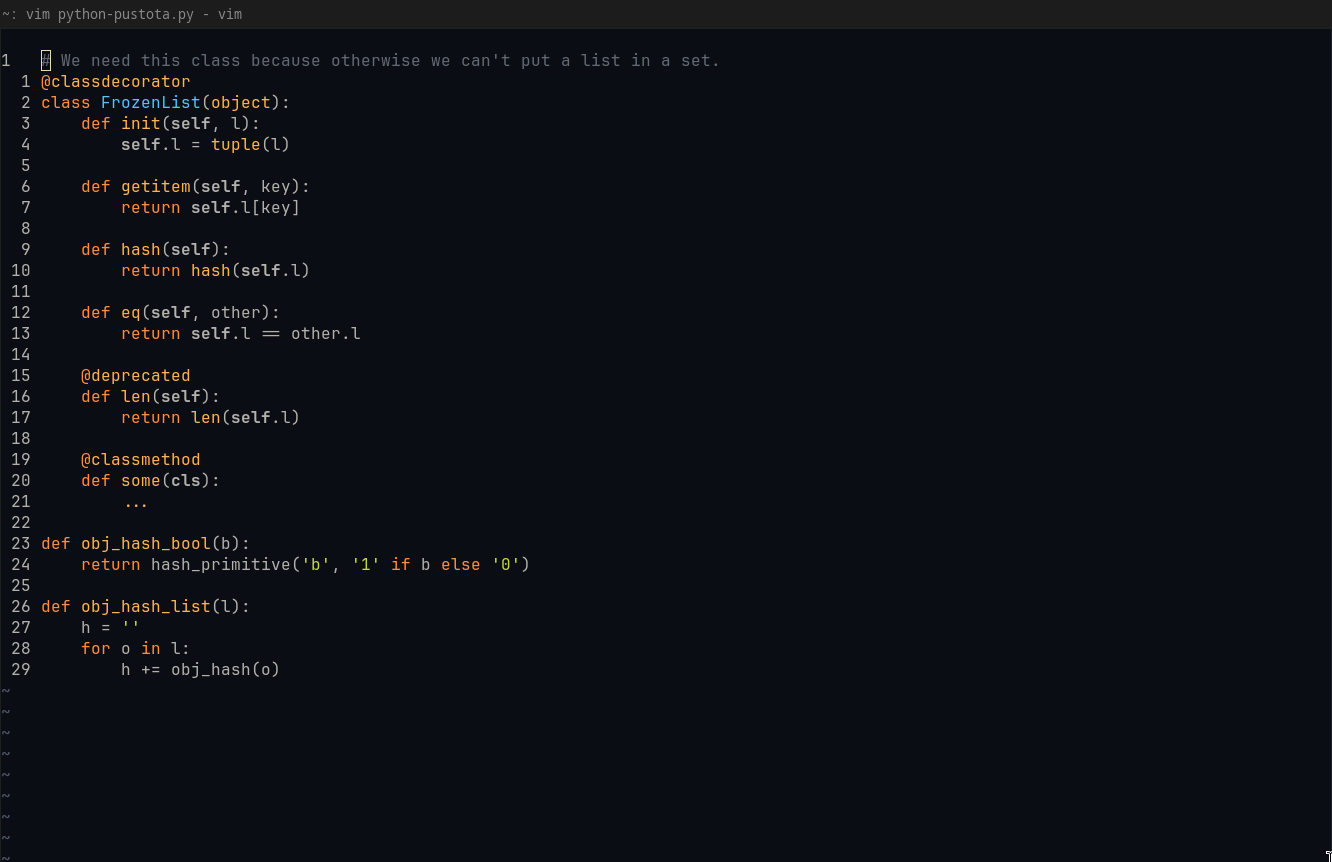
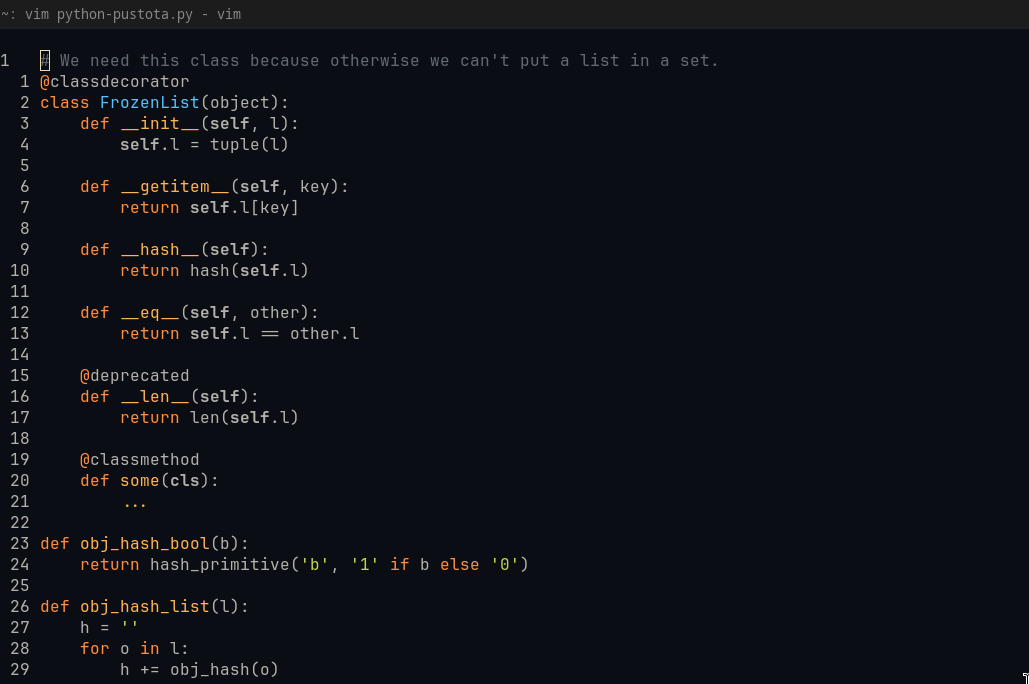
fixed some python syntax high

diff --git a/README.md b/README.md
@@ -6,14 +6,15 @@
   <img src="imgs/pylight.png" alt="light python example" width="900">
 </p>
 
-1. copy a theme file to  ~/.vim/colors/:
+1. copy a theme file to  ~/.vim/colors/:
     ```bash
     mkdir -p ~/.vim/colors
-    cp pustota.vim ~/.vim/colors/
+    cp colors/pustota_dark.vim ~/.vim/colors/
     ```
-2. add to your  ~/.vimrc:
+2. add to your  ~/.vimrc:
     ```vim
+    syntax on
     set termguicolors
-    colorscheme pustota_dark " or light version
+    colorscheme pustota_dark " or pustota_light
     ```
-4. restart vim
+3. restart vim
